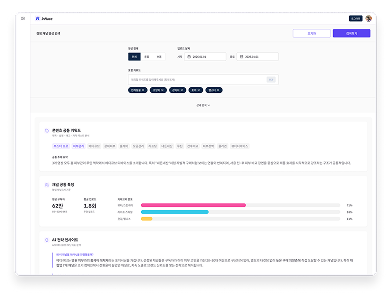
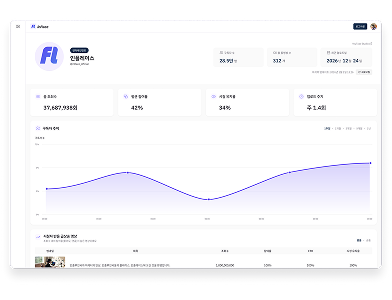
refactor(QA1-42): coderabbitai 수정 반영

diff --git a/src/features/onboarding/ui/OnboardingStep4.tsx b/src/features/onboarding/ui/OnboardingStep4.tsx
@@ -15,7 +15,7 @@ export function OnboardingStep4() {
     roles?.includes('YOUTUBER') || needs?.includes(CHANNEL_ANALYSIS_VALUE)
 
   const { data } = useMyProfile()
-  const name = data?.account.name
+  const name = data?.account.name ?? ''
   return (
     <>
       <div className='w-full'>
@@ -23,7 +23,11 @@ export function OnboardingStep4() {
           {showYoutubeConnect ? (
             <>
               <div className='relative h-[30rem] w-[39.2rem]'>
-                <Image src={ImageDefualt.src} alt='목업 이미지' fill />
+                <Image
+                  src={ImageYoutube.src}
+                  alt='채널분석 화면 미리보기'
+                  fill
+                />
               </div>
               <div>
                 <p className='text-noto-title-sm-normal text-text-and-icon-default'>
@@ -42,7 +46,11 @@ export function OnboardingStep4() {
           ) : (
             <>
               <div className='relative h-[30rem] w-[39.2rem]'>
-                <Image src={ImageYoutube.src} alt='목업 이미지' fill />
+                <Image
+                  src={ImageDefualt.src}
+                  alt='경쟁 채널 분석 미리보기'
+                  fill
+                />
               </div>
               <div>
                 <p className='text-noto-title-sm-normal text-text-and-icon-default'>
